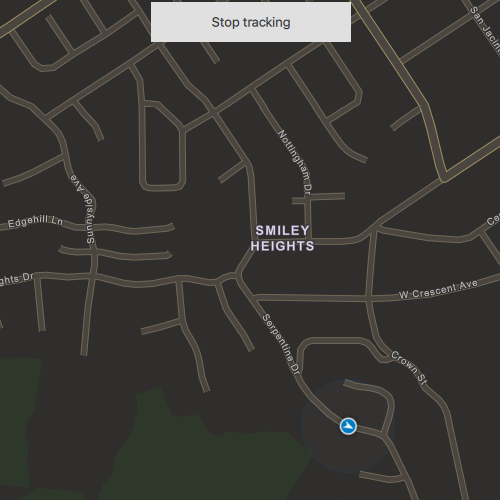
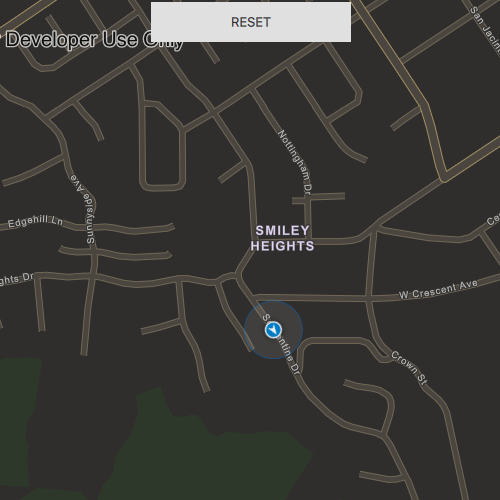
remove unused classes; rename buttons

diff --git a/ArcGISRuntimeSDKQt_CppSamples/Maps/DisplayDeviceLocationWithNmeaDataSources/DisplayDeviceLocationWithNmeaDataSources.qml b/ArcGISRuntimeSDKQt_CppSamples/Maps/DisplayDeviceLocationWithNmeaDataSources/DisplayDeviceLocationWithNmeaDataSources.qml
@@ -37,7 +37,7 @@ Item {
         anchors.horizontalCenter: parent.horizontalCenter
         y: 5
         width: 200
-        text: model.sampleStarted ? "Stop tracking" : "Start tracking"
+        text: model.sampleStarted ? "RESET" : "START"
         onClicked: {
             model.sampleStarted = !model.sampleStarted;
             if (model.sampleStarted)

diff --git a/ArcGISRuntimeSDKQt_QMLSamples/Maps/DisplayDeviceLocationWithNmeaDataSources/DisplayDeviceLocationWithNmeaDataSources.qml b/ArcGISRuntimeSDKQt_QMLSamples/Maps/DisplayDeviceLocationWithNmeaDataSources/DisplayDeviceLocationWithNmeaDataSources.qml
@@ -57,7 +57,7 @@ Rectangle {
         y: 5
         width: 200
         property bool sampleStarted: false
-        text: sampleStarted ? "Stop tracking" : "Start tracking"
+        text: sampleStarted ? "STOP" : "START"
         onClicked: {
             sampleStarted = !sampleStarted;
             if (sampleStarted) {

diff --git a/ArcGISRuntimeSDKQt_CppSamples/Maps/DisplayDeviceLocationWithNmeaDataSources/DisplayDeviceLocationWithNmeaDataSources.cpp b/ArcGISRuntimeSDKQt_CppSamples/Maps/DisplayDeviceLocationWithNmeaDataSources/DisplayDeviceLocationWithNmeaDataSources.cpp
@@ -20,11 +20,9 @@
 
 #include "DisplayDeviceLocationWithNmeaDataSources.h"
 
-#include "LocationDisplay.h"
-#include "NmeaLocationDataSource.h"
-
 #include "Map.h"
 #include "MapQuickView.h"
+#include "NmeaLocationDataSource.h"
 
 #include <QFile>
 #include <QTimer>
@@ -84,6 +82,8 @@ void DisplayDeviceLocationWithNmeaDataSources::start()
     {
       qDebug() << "Unable to load file at path:" << filePath;
       m_sampleStarted = false;
+      emit sampleStartedChanged();
+
       return;
     }
   }

diff --git a/ArcGISRuntimeSDKQt_CppSamples/Maps/DisplayDeviceLocationWithNmeaDataSources/DisplayDeviceLocationWithNmeaDataSources.h b/ArcGISRuntimeSDKQt_CppSamples/Maps/DisplayDeviceLocationWithNmeaDataSources/DisplayDeviceLocationWithNmeaDataSources.h
@@ -23,9 +23,7 @@ namespace ArcGISRuntime
 {
 class Map;
 class MapQuickView;
-class NmeaLocation;
 class NmeaLocationDataSource;
-class SimulatedLocationDataSource;
 }
 }
 
